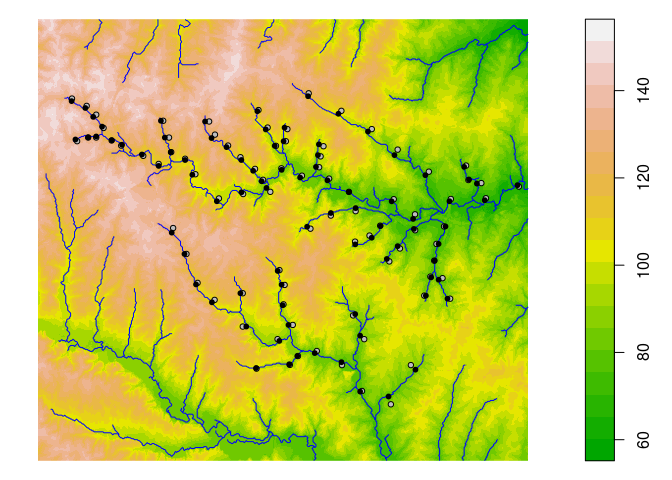
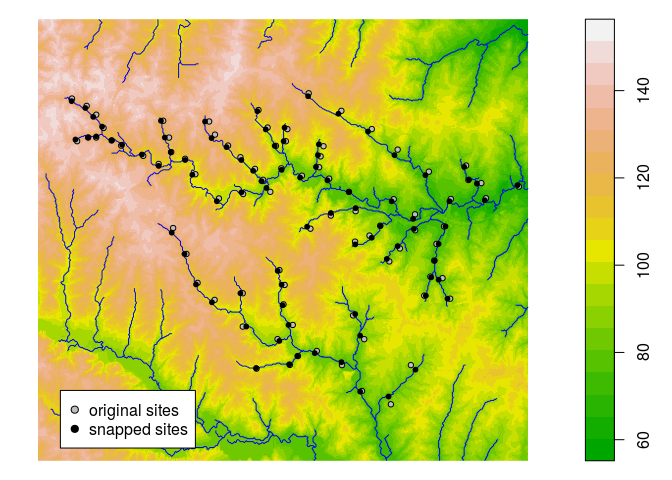
update README

Changed region(s): [[0.0625, 0.8125, 0.3125, 0.9375]]

diff --git a/README.md b/README.md
@@ -36,9 +36,9 @@ library(openSTARS)
 initGRASS(gisBase = "/usr/lib/grass72/",
           home = tempdir(),
           override = TRUE)
-#> gisdbase    /tmp/RtmpPE5rka 
-#> location    file3069678f9266 
-#> mapset      file306975285640 
+#> gisdbase    /tmp/RtmpprJDfy 
+#> location    file1f5f473f9fef 
+#> mapset      file1f5f56bf501e 
 #> rows        1 
 #> columns     1 
 #> north       1 
@@ -213,6 +213,7 @@ plot(dem, col = terrain.colors(20))
 lines(edges, col = "blue")
 points(sites_orig, pch = 21, cex=0.75, bg = "grey")
 points(sites, pch = 20, col = "black")
+legend(x=par("usr")[1]*1.002, y = par("usr")[3]*1.01,, col = 1, pt.bg = "grey", pch = c(21, 19), legend = c("original sites","snapped sites"))
 ```
 
 ![](README_files/figure-html/plot_data3-1.png)<!-- -->
@@ -248,7 +249,8 @@ edges <- readVECT("edges", ignore.stderr = TRUE)
 plot(dem, col = terrain.colors(20))
 lines(edges, col = "blue")
 points(sites, pch = 21, cex=0.75, bg = "grey")
-points(pred_sites, pch = 20, col = "black")
+points(pred_sites, pch = 21, cex=0.75, bg = "royalblue")
+legend(x=par("usr")[1]*1.002, y = par("usr")[3]*1.01, pt.bg = c("grey","royalblue"), pch = 21, legend = c("observation sites","prediction sites"))
 ```
 
 ![](README_files/figure-html/plot_data4-1.png)<!-- -->
@@ -274,7 +276,7 @@ For the approximate calculation, first attributes must be intersected with the s
 
 
 ```r
-# calculates slope from DEM as an example attribute
+# calculate slope from DEM as an example attribute
 execGRASS("r.slope.aspect", flags = c("overwrite","quiet"),
           parameters = list(
             elevation = "dem",
@@ -311,12 +313,6 @@ The exact calculation of attribute values for the total catchment of each point 
 
 
 ```r
-# calculates slope from DEM as an example attribute
-execGRASS("r.slope.aspect", flags = c("overwrite","quiet"),
-          parameters = list(
-            elevation = "dem",
-            slope = "slope"
-          ))
 # calculate exact catchment area and average slope per catchment of each site
 calc_attributes_sites_exact(sites_map = "sites", 
                             input_raster = "slope",
@@ -328,7 +324,7 @@ calc_attributes_sites_exact(sites_map = "sites",
 #> v.out.ogr complete. 87 features (Point type) written to <sites> (SQLite
 #> format).
 #> OGR data source with driver: SQLite 
-#> Source: "/tmp/RtmpPE5rka/file3069678f9266/PERMANENT/.tmp/mira-Linux/629.0", layer: "sites"
+#> Source: "/tmp/RtmpprJDfy/file1f5f473f9fef/PERMANENT/.tmp/mira-Linux/127.0", layer: "sites"
 #> with 87 features
 #> It has 15 fields
 sites <- readVECT("sites", ignore.stderr = TRUE)
